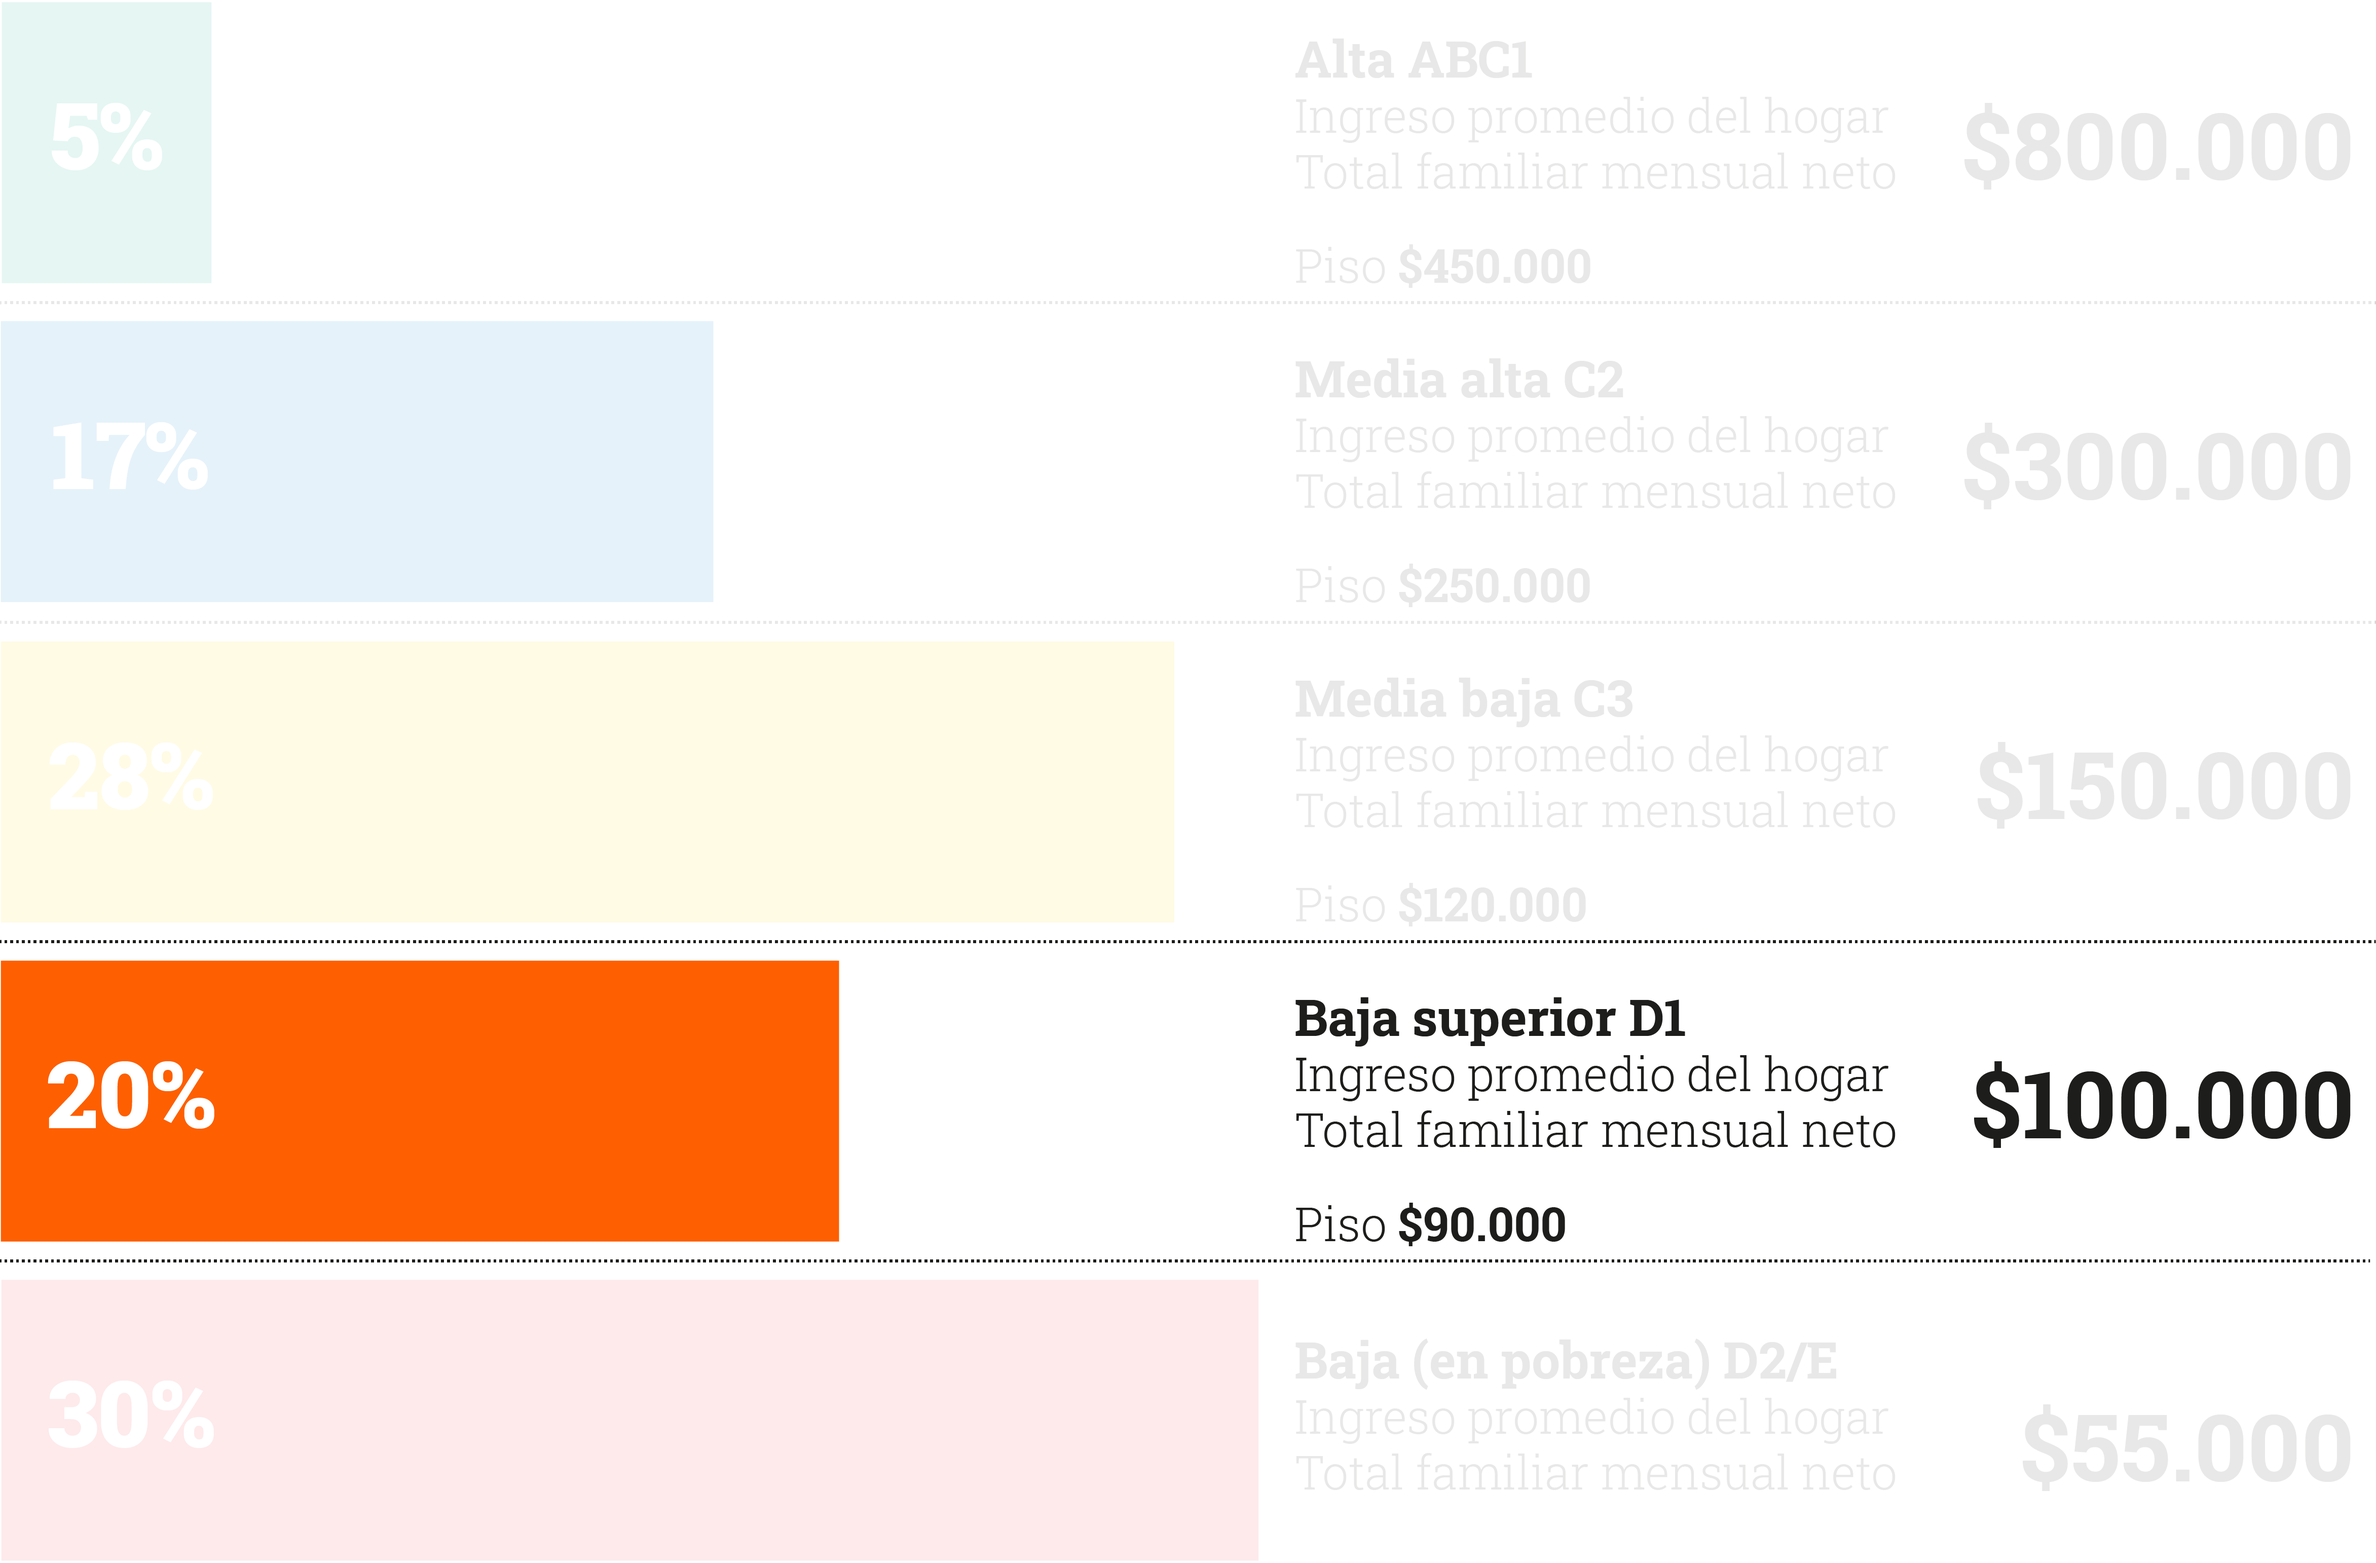
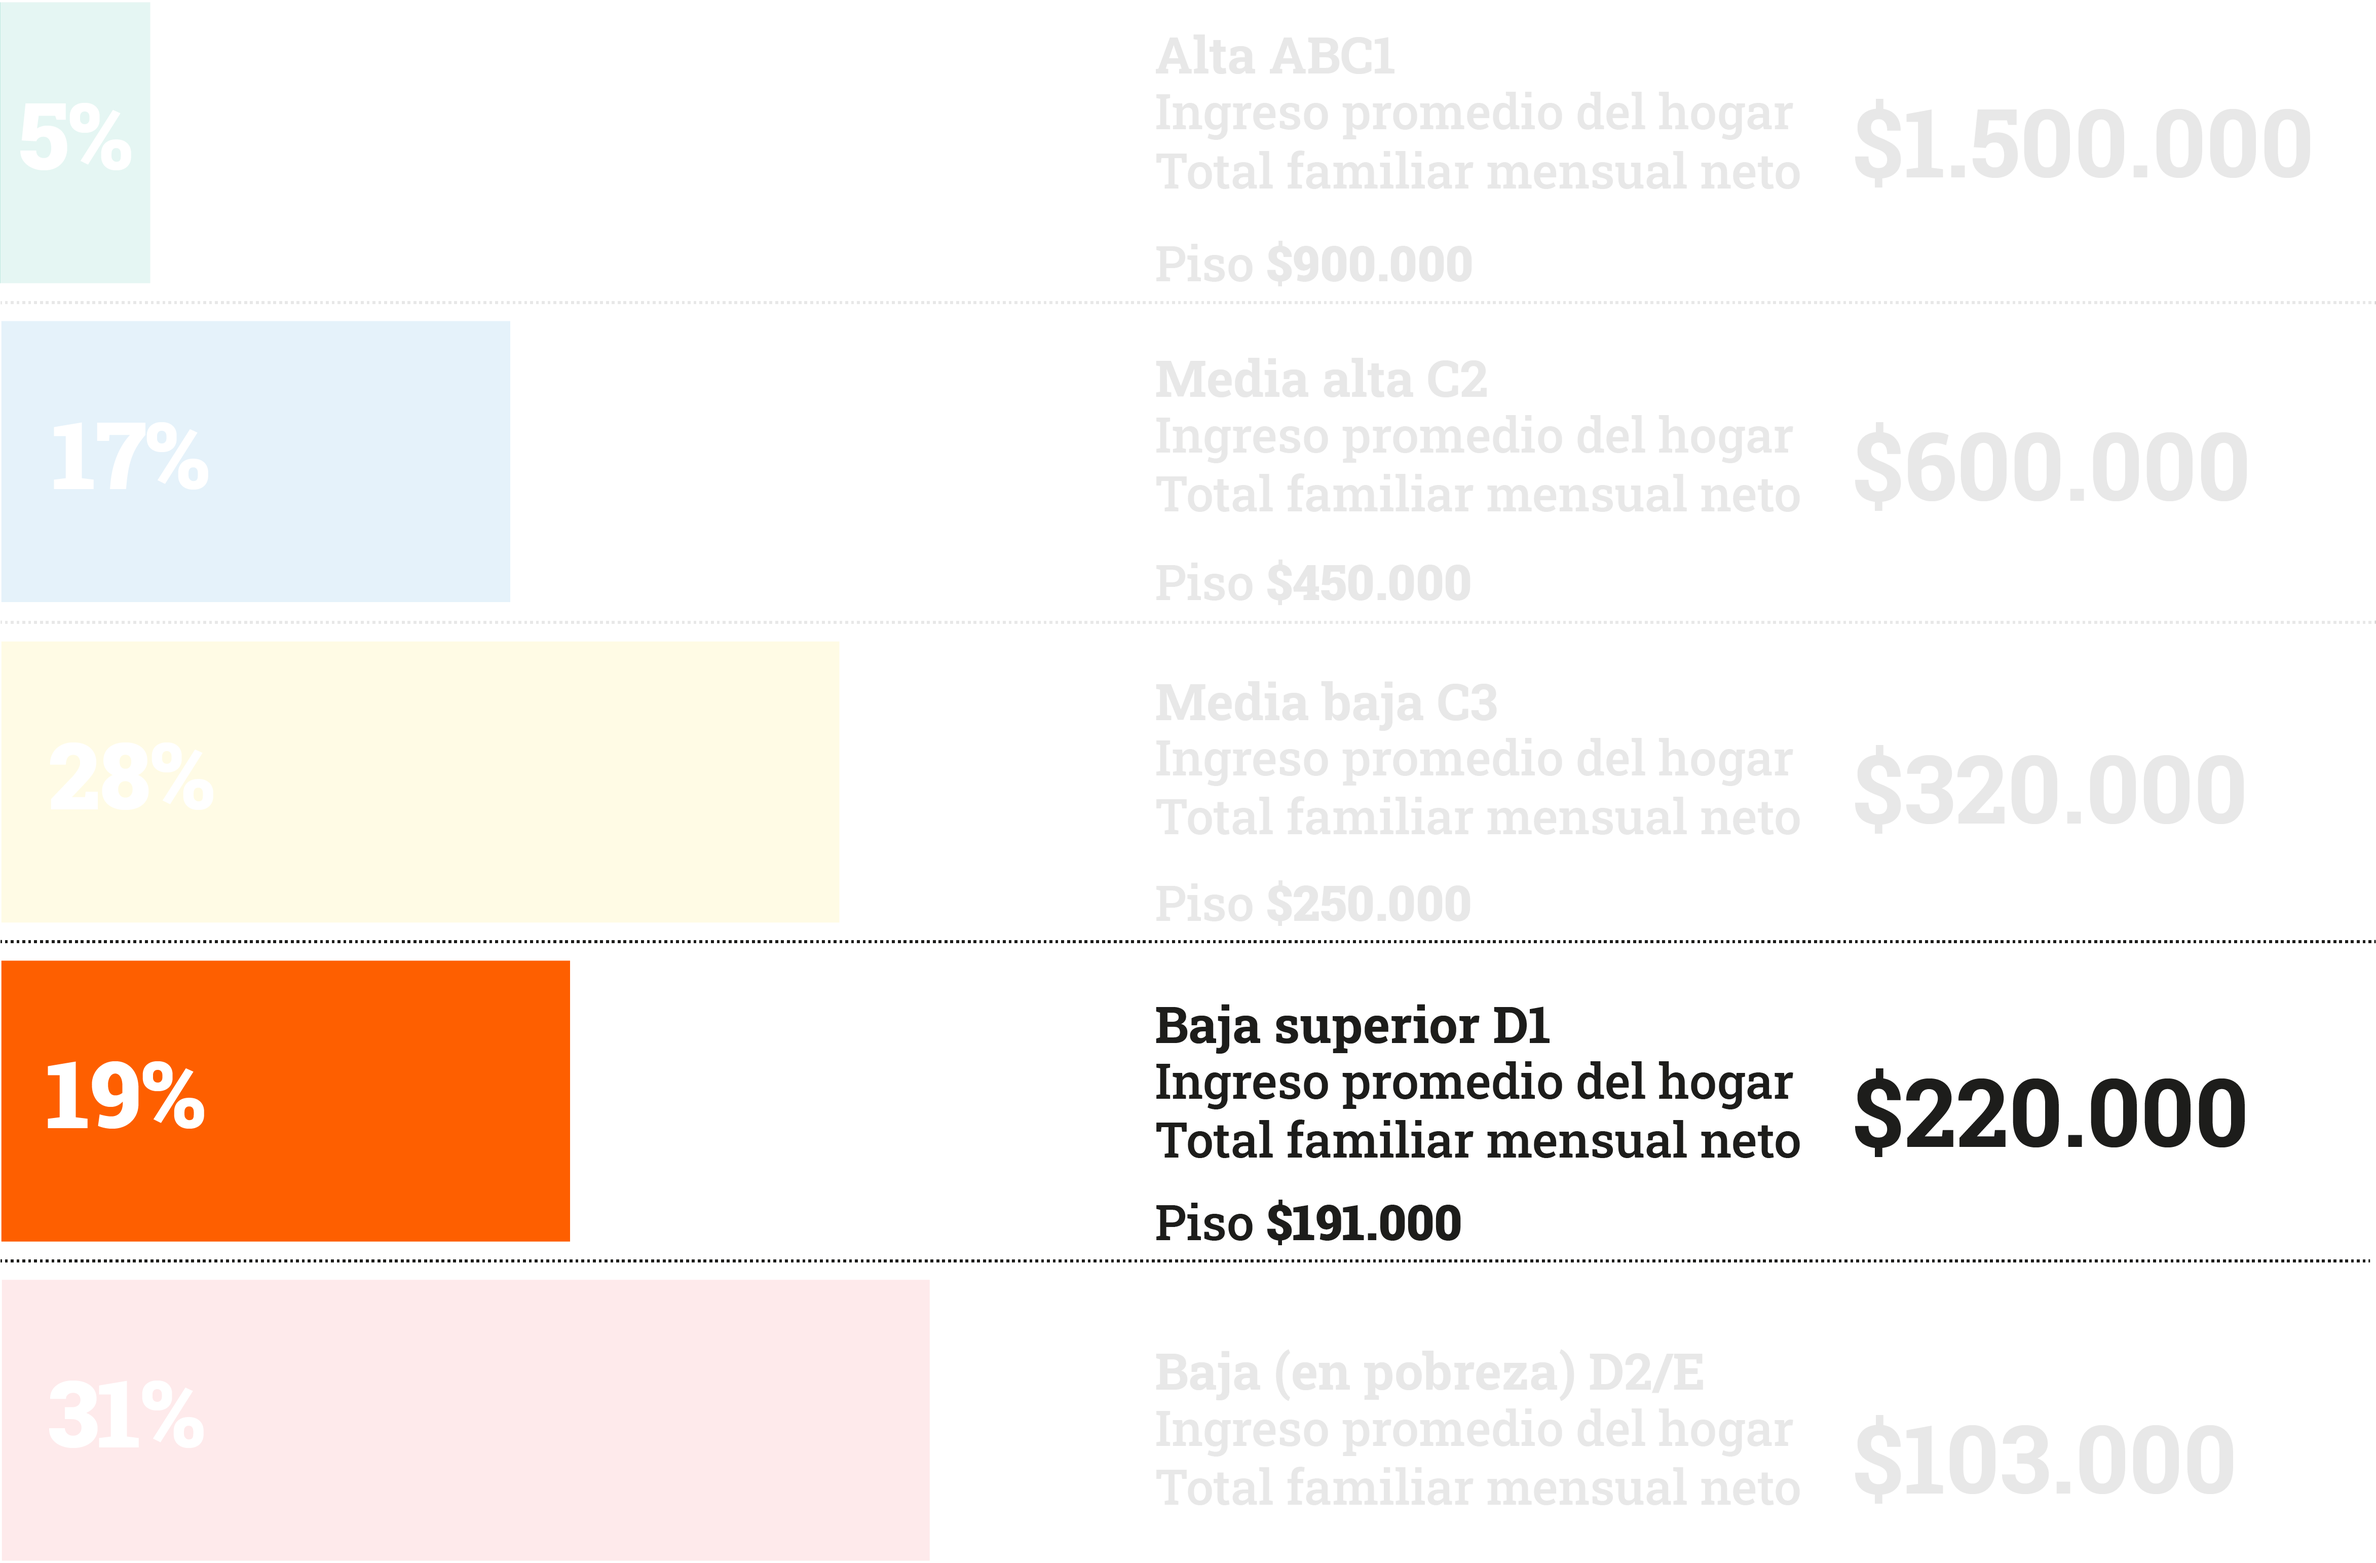
se agregaron titulos y se modifio algunas cosas de la infografia

diff --git a/src/components/SalaryForm.jsx b/src/components/SalaryForm.jsx
@@ -35,11 +35,13 @@ export function SalaryForm({ getSalary }) {
   return (
     <div>
       {isShownForm && (
-        <form onSubmit={onSubmit}>
+        <div className="container">
+          <h1 className="col-sm-12 col-md-8 col-lg-8 titulo-formulario">Ingresá tu salario neto y descubrí en qué parte de la pirámide de ingresos estás</h1>
+        <form className="col-sm-12 col-md-8 col-lg-8" onSubmit={onSubmit}>
           <label htmlFor="salary"></label>
           <input
           className="form-control"
-          placeholder="Ingresá tu salario bruto"
+          placeholder="Ingresá tu salario neto"
             type="text"
             {...register("salary", {
               required: {
@@ -60,10 +62,13 @@ export function SalaryForm({ getSalary }) {
 
           <button className="btn btn-success" type="submit">Calcular</button>
         </form>
+        </div>
       )}
 
       {isShownSalary && (
         <div className="col-12">
+          <h1>La pirámide social de la argentina en el 2023</h1>
+          <h2>El ingreso promedio total del país en hogares es de $340.000 mensuales</h2>
           <img
             className="img-fluid"
             src={

diff --git a/src/index.css b/src/index.css
@@ -6,6 +6,20 @@ body {
   min-height: 100vh;
 }
 
+h1 {
+  font-family: 'Roboto', sans-serif;
+  font-weight: 700;
+  font-size: 2rem;
+  padding-bottom: 15px;
+}
+
+h2 {
+  font-family: 'Roboto', sans-serif;
+  font-weight: 500;
+  font-size: 1.5rem;
+  padding-bottom: 20px;
+}
+
 label {
   display: block;
 }
@@ -22,9 +36,9 @@ span {
 
 img {
   max-width: 100vw;
-  max-height: 80vh;
+  max-height: 100vh;
 }
 
 button {
-  margin-top: 15px;
+  margin-top: 25px;
 }
